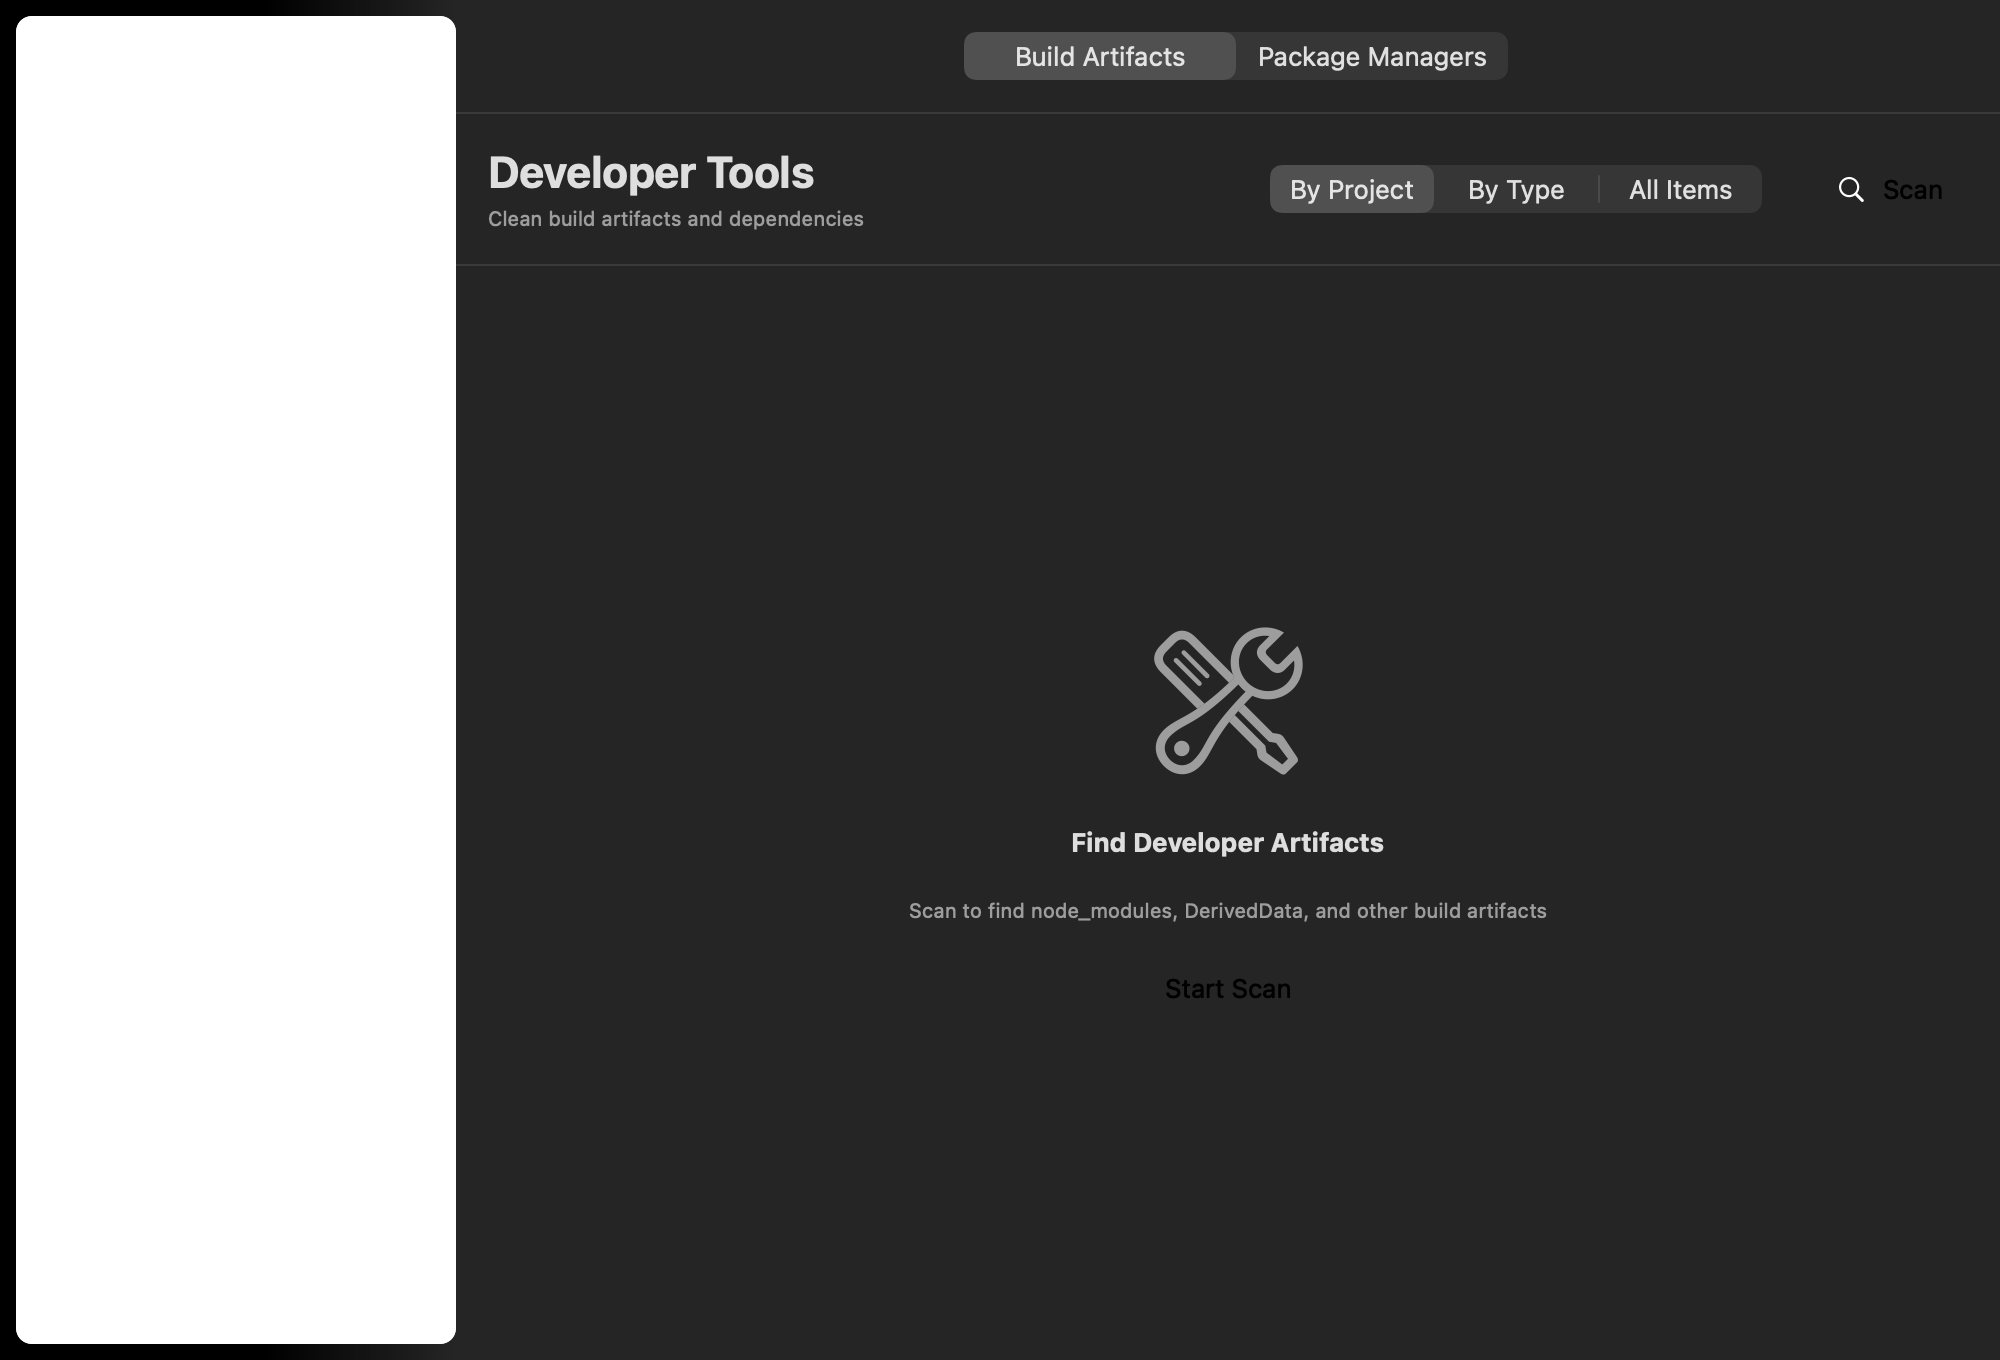
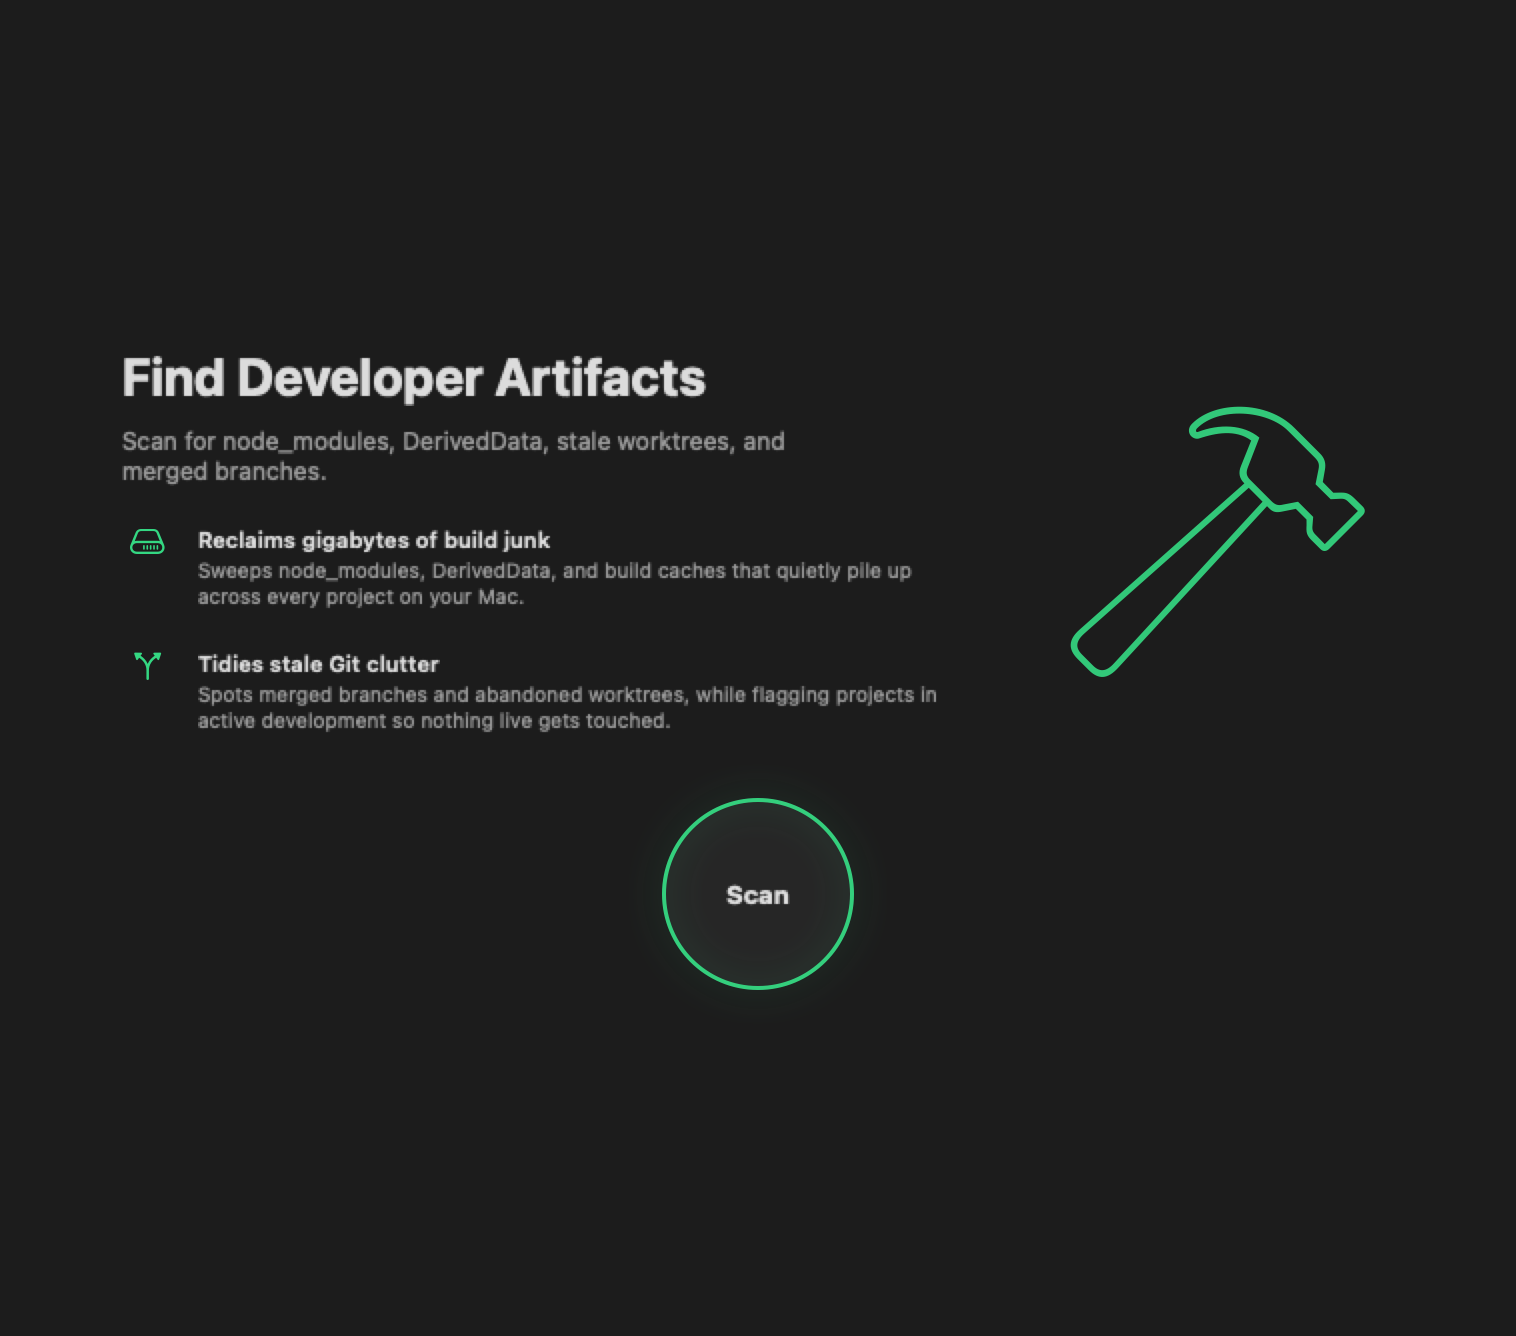
feat(macsweep): direct DMG download CTA + fresh screenshots (#1)
Replace the brew-first install flow with a t3.codes-style direct
download: primary CTA is now "Download for macOS" linking the stable
notarized artifact (releases/latest/download/MacSweep.dmg); Homebrew
stays as the secondary "Prefer Homebrew?" path. Adds releasesUrl to the
product schema so the "All releases" button is separate from the direct
download (MeterBar keeps its current releases-page behavior).

Screenshots were stale pre-rebrand renders with a dead-white sidebar
and a "Full Disk Access Required" banner baked in. Replaced with 2x
(2000x1360-source) renders of the current 1.1.0 UI, cropped to the
content pane so the headless renderer's blank sidebar and permission
banner are gone. Swapped the primary from Smart Care (placeholder
telemetry reads as fake) to Maintenance (real content, no live data).

Verified: turbo build green for both apps; rendered HTML carries the
DMG hrefs and new images, no smart-care references remain.

diff --git a/packages/landing/src/landing-page.tsx b/packages/landing/src/landing-page.tsx
@@ -9,7 +9,13 @@ import {
 } from "@workspace/ui/components/card"
 import { Separator } from "@workspace/ui/components/separator"
 import { cn } from "@workspace/ui/lib/utils"
-import { ArrowUpRight, ChevronRight, GitFork, Terminal } from "lucide-react"
+import {
+  ArrowUpRight,
+  ChevronRight,
+  Download,
+  GitFork,
+  Terminal,
+} from "lucide-react"
 import type { CSSProperties } from "react"
 
 import type { LandingProduct } from "./types"
@@ -234,31 +240,44 @@ function InstallSection({ product }: LandingPageProps) {
         <Card className="rounded-lg *:rounded-lg">
           <CardHeader>
             <div className="flex items-center gap-2 text-sm font-medium">
-              <Terminal className="size-4" aria-hidden="true" />
-              Homebrew
+              <Download className="size-4" aria-hidden="true" />
+              Direct download
             </div>
             <CardDescription>
-              Copy the command or point an agent at the repository release
-              notes.
+              Signed and notarized. Drag to Applications, done.
             </CardDescription>
           </CardHeader>
           <CardContent className="flex flex-col gap-5">
+            <div className="flex flex-col gap-3 sm:flex-row">
+              <a
+                className={cn(buttonVariants({ size: "lg" }))}
+                href={product.downloadUrl}
+              >
+                <Download data-icon="inline-start" />
+                {product.primaryCta}
+              </a>
+              <a
+                className={cn(buttonVariants({ size: "lg", variant: "outline" }))}
+                href={product.releasesUrl}
+              >
+                All releases
+                <ArrowUpRight data-icon="inline-end" />
+              </a>
+            </div>
+            <div className="flex items-center gap-2 text-sm font-medium">
+              <Terminal className="size-4" aria-hidden="true" />
+              Prefer Homebrew?
+            </div>
             <pre className="overflow-x-auto rounded-lg bg-foreground p-4 text-sm leading-7 text-background">
               <code>{product.installCommand}</code>
             </pre>
-            <div className="flex flex-col gap-3 sm:flex-row">
-              <a className={cn(buttonVariants())} href={product.downloadUrl}>
-                Releases
-                <ArrowUpRight data-icon="inline-end" />
-              </a>
-              <a
-                className={cn(buttonVariants({ variant: "outline" }))}
-                href={product.repoUrl}
-              >
-                <GitFork data-icon="inline-start" />
-                GitHub
-              </a>
-            </div>
+            <a
+              className={cn(buttonVariants({ variant: "outline" }))}
+              href={product.repoUrl}
+            >
+              <GitFork data-icon="inline-start" />
+              GitHub
+            </a>
           </CardContent>
         </Card>
       </div>

diff --git a/packages/landing/src/products.ts b/packages/landing/src/products.ts
@@ -16,6 +16,7 @@ export const meterBarLanding: LandingProduct = {
   domain: "meterbar.dev",
   repoUrl: "https://github.com/VincentShipsIt/meterbar.app",
   downloadUrl: "https://github.com/VincentShipsIt/meterbar.app/releases",
+  releasesUrl: "https://github.com/VincentShipsIt/meterbar.app/releases",
   installCommand:
     "brew tap VincentShipsIt/tap && brew install --cask VincentShipsIt/tap/meterbar",
   accent: "oklch(0.67 0.18 150)",
@@ -76,7 +77,9 @@ export const macSweepLanding: LandingProduct = {
   name: "MacSweep",
   domain: "macsweep.dev",
   repoUrl: "https://github.com/VincentShipsIt/macsweep",
-  downloadUrl: "https://github.com/VincentShipsIt/macsweep/releases",
+  downloadUrl:
+    "https://github.com/VincentShipsIt/macsweep/releases/latest/download/MacSweep.dmg",
+  releasesUrl: "https://github.com/VincentShipsIt/macsweep/releases",
   installCommand:
     "brew tap vincentshipsit/tap && brew install --cask vincentshipsit/tap/macsweep",
   accent: "oklch(0.68 0.16 210)",
@@ -88,14 +91,14 @@ export const macSweepLanding: LandingProduct = {
     "MacSweep is an open-source native macOS cleaner and CLI for scanning, inspecting, and cleaning developer and system clutter safely.",
   heroCopy:
     "A native cleaner for developers who want to see exactly what will be removed before anything is touched. Scan first, clean intentionally, keep the code public.",
-  primaryCta: "Download",
+  primaryCta: "Download for macOS",
   secondaryCta: "View source",
   visual: {
     logo: "/product/logo.svg",
-    primaryImage: "/product/smart-care.png",
+    primaryImage: "/product/maintenance.png",
     secondaryImage: "/product/space-lens.png",
     tertiaryImage: "/product/developer-tools.png",
-    primaryAlt: "MacSweep Smart Care screen",
+    primaryAlt: "MacSweep one-click maintenance actions",
     secondaryAlt: "MacSweep Space Lens disk visualization",
     tertiaryAlt: "MacSweep developer tools cleanup screen",
   },

diff --git a/packages/landing/src/types.ts b/packages/landing/src/types.ts
@@ -4,7 +4,10 @@ export type LandingProduct = {
   name: string
   domain: string
   repoUrl: string
+  /** Primary download target — a direct artifact (e.g. notarized .dmg) when available. */
   downloadUrl: string
+  /** All-releases page, linked as the secondary "all releases" action. */
+  releasesUrl: string
   installCommand: string
   accent: string
   accentSoft: string